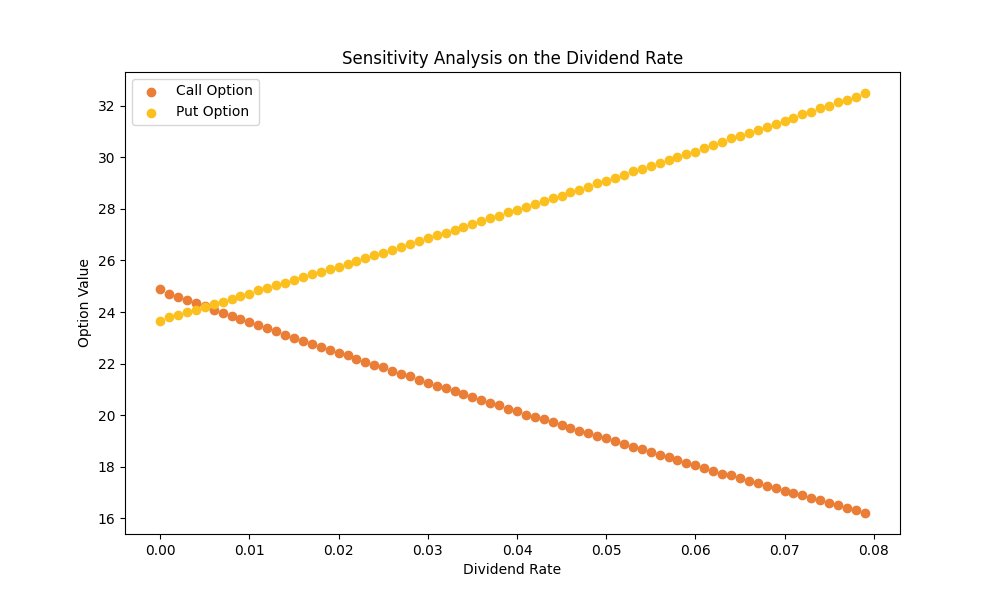
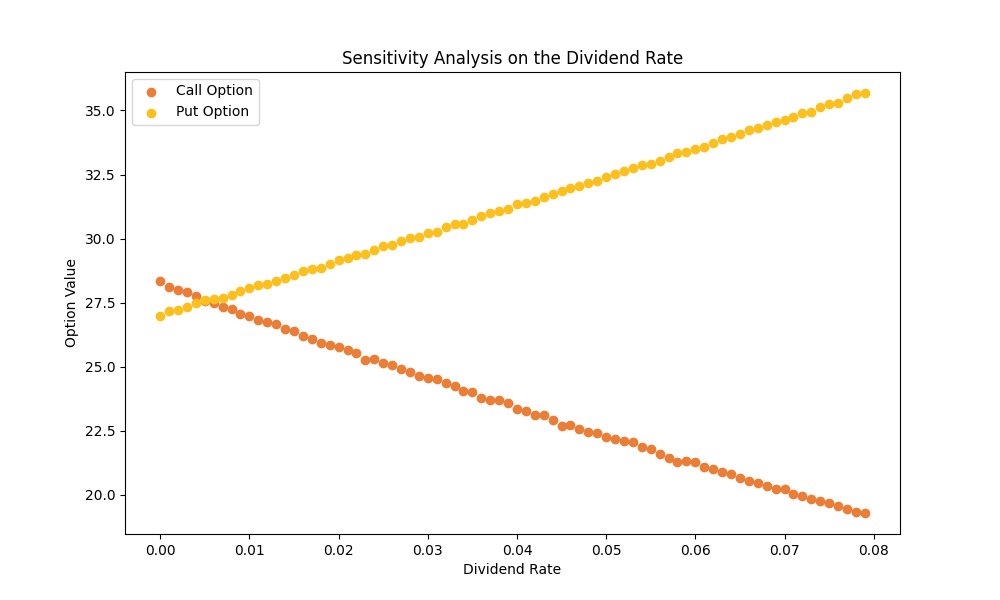
using numerical_values

diff --git a/src/BSM.py b/src/BSM.py
@@ -120,7 +120,7 @@ def simulation(simulation_time=10, base_params = None):
 def option_value_vectorized(st_list):
     if st_list.size == 0:
         return 0
-    return np.mean(st_list[:, -1].astype(float))
+    return np.mean(st_list[:, -2].astype(float))
 
 def sensitivity_analysis(param_name, param_range, simulation_time=100000, base_params=None,
                          ct_color='#ea7e36', pt_color='#fcc01e', 
